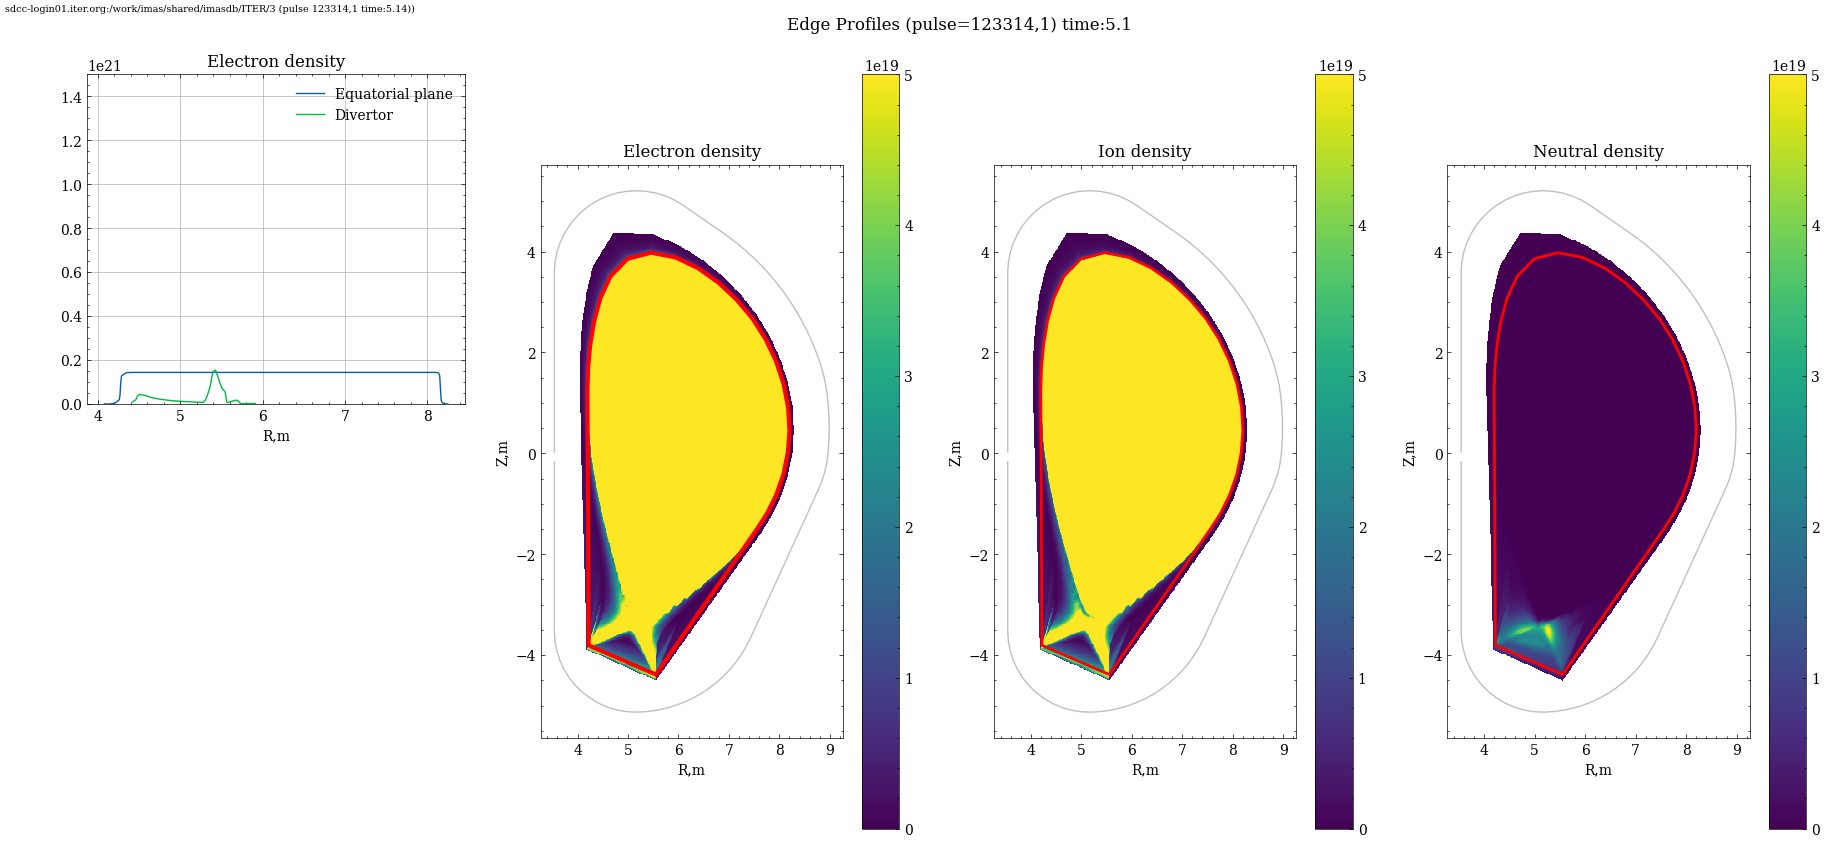
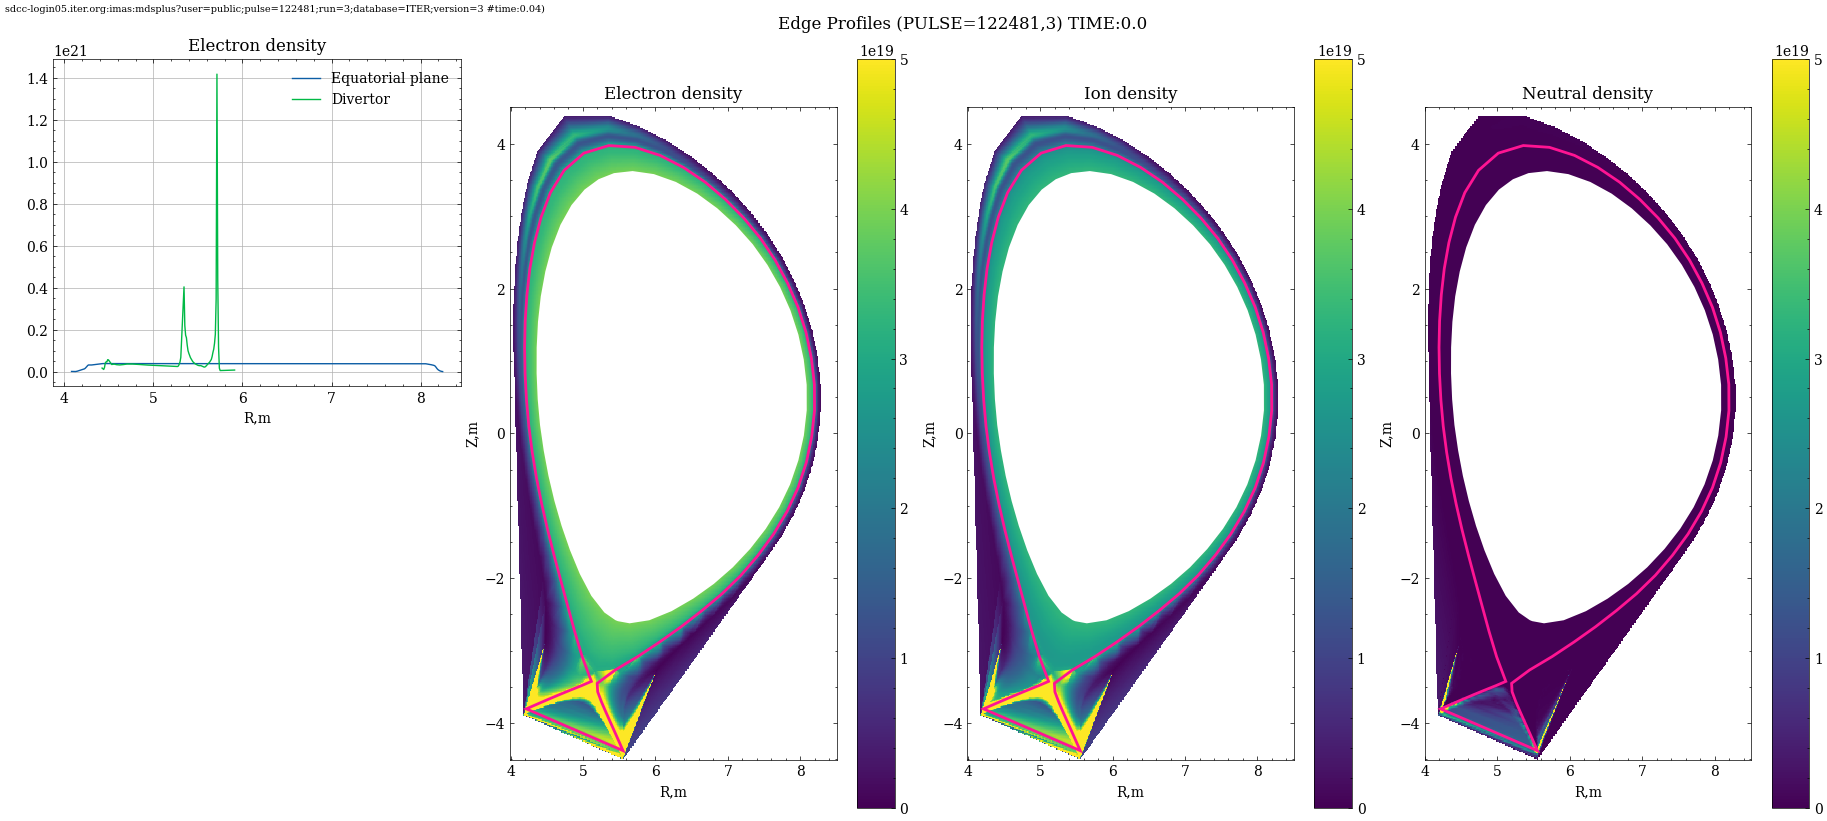
fixed plotedgeprofiles for plotting separatrix

diff --git a/idstools/compute/edge_profiles.py b/idstools/compute/edge_profiles.py
@@ -735,14 +735,53 @@ class EdgeProfilesCompute:
                 nspecOverNmaj[ispecies] = nspecOverNmaj[ispecies] + nspecOverNmaj[jspecies]
                 nspecOverNmaj[jspecies] = 0
 
+    def getCoreBoundry(self, timeSlice=0):
+        CORE_BOUNDRY_SUBSET_INDEX = 15  # core_boundry
+        CORE_SUBSET_INDEX = 22 # Core
+        core_boundryGridSubset = None
+        coreGridSubset = None
+        for grid_subset in self.ids.grid_ggd[timeSlice].grid_subset:
+            if grid_subset.identifier.index == CORE_BOUNDRY_SUBSET_INDEX:
+                core_boundryGridSubset = grid_subset
+                print(
+                    f"Found Grid subset for core_boundry subset name:{grid_subset.identifier.name}, Index: \
+                    {grid_subset.identifier.index}"
+                )
+            if grid_subset.identifier.index == CORE_SUBSET_INDEX:
+                coreGridSubset = grid_subset
+                print(
+                    f"Found Grid subset for core name:{grid_subset.identifier.name}, Index: \
+                    {grid_subset.identifier.index}"
+                )
+        if core_boundryGridSubset or coreGridSubset:
+            if core_boundryGridSubset is not None and len(core_boundryGridSubset.element) !=0:
+                gridSubset = core_boundryGridSubset 
+                
+            elif coreGridSubset is not None and len(coreGridSubset.element) !=0:
+                gridSubset = coreGridSubset 
+                
+        num_sep=len(gridSubset.element)
+        sep_coords = np.zeros((num_sep, 2))
+    
+        for ielement, element in enumerate(gridSubset.element):
+            for obj in element.object:
+                index = obj.index - 1 # 1 based indexing
+                space = obj.space - 1
+                dim = 0  # choosing nodes 1=nodes, 2=edges, 3=faces, 4=cells/volumes
+                sep_coords[ielement, :] = (
+                    self.ids.grid_ggd[timeSlice].space[space].objects_per_dimension[dim].object[index].geometry[:2]
+                )
+        # hull = ConvexHull(sep_coords[0 : num_sep - 1, :])  # find a closed core_boundry contour
+        # core_boundry = np.array([sep_coords[hull.vertices, 0], sep_coords[hull.vertices, 1]]).T
+        return sep_coords
+    
     def getSeparatrix(self, timeSlice=0):
         SUBSET_INDEX = 16  # separatrix
-
         separatixGridSubset = None
         for grid_subset in self.ids.grid_ggd[timeSlice].grid_subset:
+            
             if grid_subset.identifier.index == SUBSET_INDEX:
                 separatixGridSubset = grid_subset
-
                 logger.info(
                     f"Found Grid subset for separatrix name:{grid_subset.identifier.name}, Index: \
                     {grid_subset.identifier.index}"
@@ -751,24 +790,22 @@ class EdgeProfilesCompute:
             logger.warning("edge_profiles IDS:Separatrix not found")
             return None
         num_sep = len(separatixGridSubset.element)
-        if num_sep == 0:
-            logger.warning("edge_profiles IDS:No element found in separatrix grid subset")
-            return None
+        # if num_sep == 0:
+        #     logger.warning("edge_profiles IDS:No element found in separatrix grid subset")
+        #     return None
         sep_coords = np.zeros((num_sep, 2))
-
+    
         for ielement, element in enumerate(separatixGridSubset.element):
             for obj in element.object:
-                index = obj.index - 1
+                index = obj.index - 1 # 1 based indexing
                 space = obj.space - 1
                 dim = 0  # choosing nodes 1=nodes, 2=edges, 3=faces, 4=cells/volumes
-
                 sep_coords[ielement, :] = (
                     self.ids.grid_ggd[timeSlice].space[space].objects_per_dimension[dim].object[index].geometry[:2]
                 )
-
-        hull = ConvexHull(sep_coords[0 : num_sep - 1, :])  # find a closed separatrix contour
-        separatrix = np.array([sep_coords[hull.vertices, 0], sep_coords[hull.vertices, 1]]).T
-        return separatrix
+        # hull = ConvexHull(sep_coords[0 : num_sep - 1, :])  # find a closed separatrix contour
+        # separatrix = np.array([sep_coords[hull.vertices, 0], sep_coords[hull.vertices, 1]]).T
+        return sep_coords[0 : num_sep - 1, :]
 
     def getRZ(self, timeSlice=0):
         """

diff --git a/idstools/view/edge_profiles.py b/idstools/view/edge_profiles.py
@@ -1,7 +1,7 @@
 from idstools.compute.edge_profiles import EdgeProfilesCompute
 import numpy as np
-
-
+import logging
+logger = logging.getLogger("module")
 class EdgeProfilesView:
     def __init__(self, edgeProfileIds=None):
         self.edgeProfilesCompute = EdgeProfilesCompute(edgeProfileIds)
@@ -120,6 +120,8 @@ class EdgeProfilesView:
         if ne_edge is not None:
             ax.grid(False)
             c = ax.pcolormesh(x, y, ne_edge, vmin=0, vmax=5e19, shading="auto")
+            core_boundry=self.edgeProfilesCompute.getCoreBoundry(timeSlice)
+            ax.fill(core_boundry[:,0],core_boundry[:,1],facecolor='w', edgecolor='r', linewidth=0)
             if showSeparatrix:
                 separatrix = self.edgeProfilesCompute.getSeparatrix(timeSlice)
                 if separatrix is not None:
@@ -127,7 +129,7 @@ class EdgeProfilesView:
                         separatrix[:, 0],
                         separatrix[:, 1],
                         facecolor="none",
-                        edgecolor="r",
+                        edgecolor="#FF1493",
                         linewidth=2,
                     )
             ax.set_aspect("equal", adjustable="box")
@@ -167,6 +169,8 @@ class EdgeProfilesView:
         if ni_edge is not None:
             ax.grid(False)
             c = ax.pcolormesh(x, y, ni_edge, vmin=0, vmax=5e19, shading="auto")
+            core_boundry=self.edgeProfilesCompute.getCoreBoundry(timeSlice)
+            ax.fill(core_boundry[:,0],core_boundry[:,1],facecolor='w', edgecolor='r', linewidth=0)
             if showSeparatrix:
                 separatrix = self.edgeProfilesCompute.getSeparatrix(timeSlice)
                 if separatrix is not None:
@@ -174,7 +178,7 @@ class EdgeProfilesView:
                         separatrix[:, 0],
                         separatrix[:, 1],
                         facecolor="none",
-                        edgecolor="r",
+                        edgecolor="#FF1493",
                         linewidth=2,
                     )
 
@@ -217,6 +221,8 @@ class EdgeProfilesView:
         if n_neutral_edge is not None:
             ax.grid(False)
             c = ax.pcolormesh(x, y, n_neutral_edge, vmin=0, vmax=5e19, shading="auto")
+            core_boundry=self.edgeProfilesCompute.getCoreBoundry(timeSlice)
+            ax.fill(core_boundry[:,0],core_boundry[:,1],facecolor='w', edgecolor='r', linewidth=0)
             if showSeparatrix:
                 separatrix = self.edgeProfilesCompute.getSeparatrix(timeSlice)
                 if separatrix is not None:
@@ -224,7 +230,7 @@ class EdgeProfilesView:
                         separatrix[:, 0],
                         separatrix[:, 1],
                         facecolor="none",
-                        edgecolor="r",
+                        edgecolor="#FF1493",
                         linewidth=2,
                     )
             ax.set_aspect("equal", adjustable="box")
